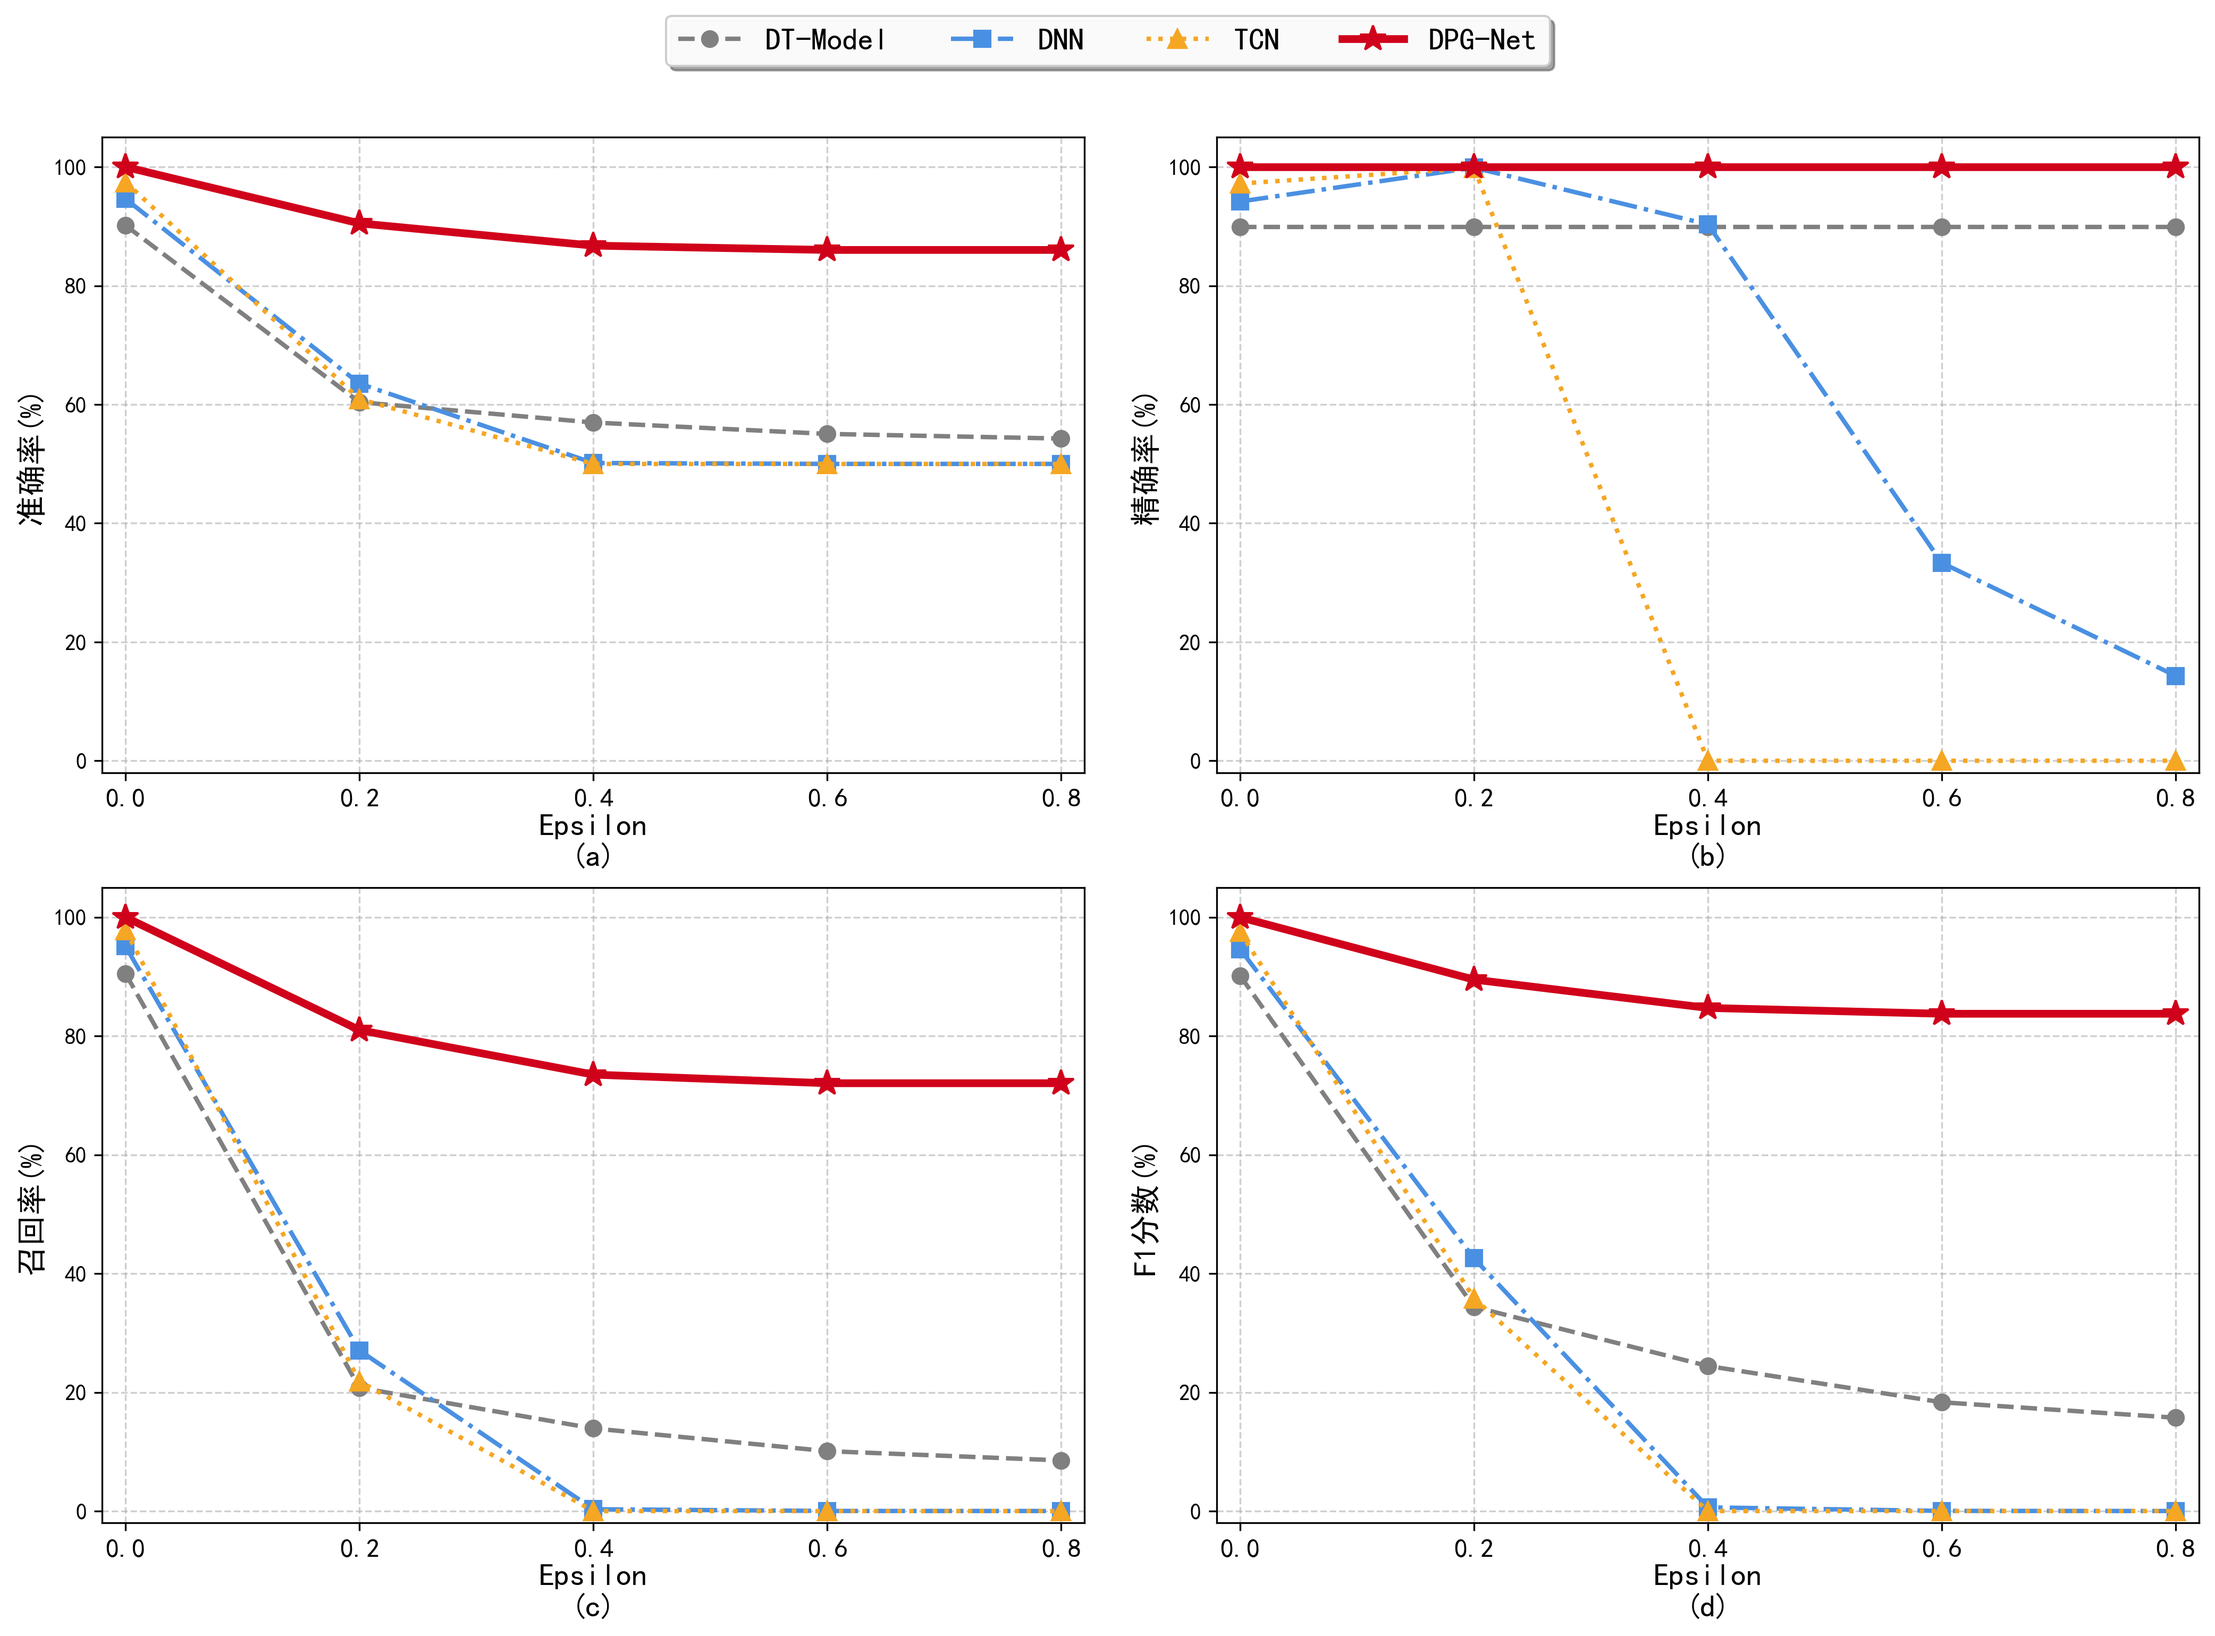
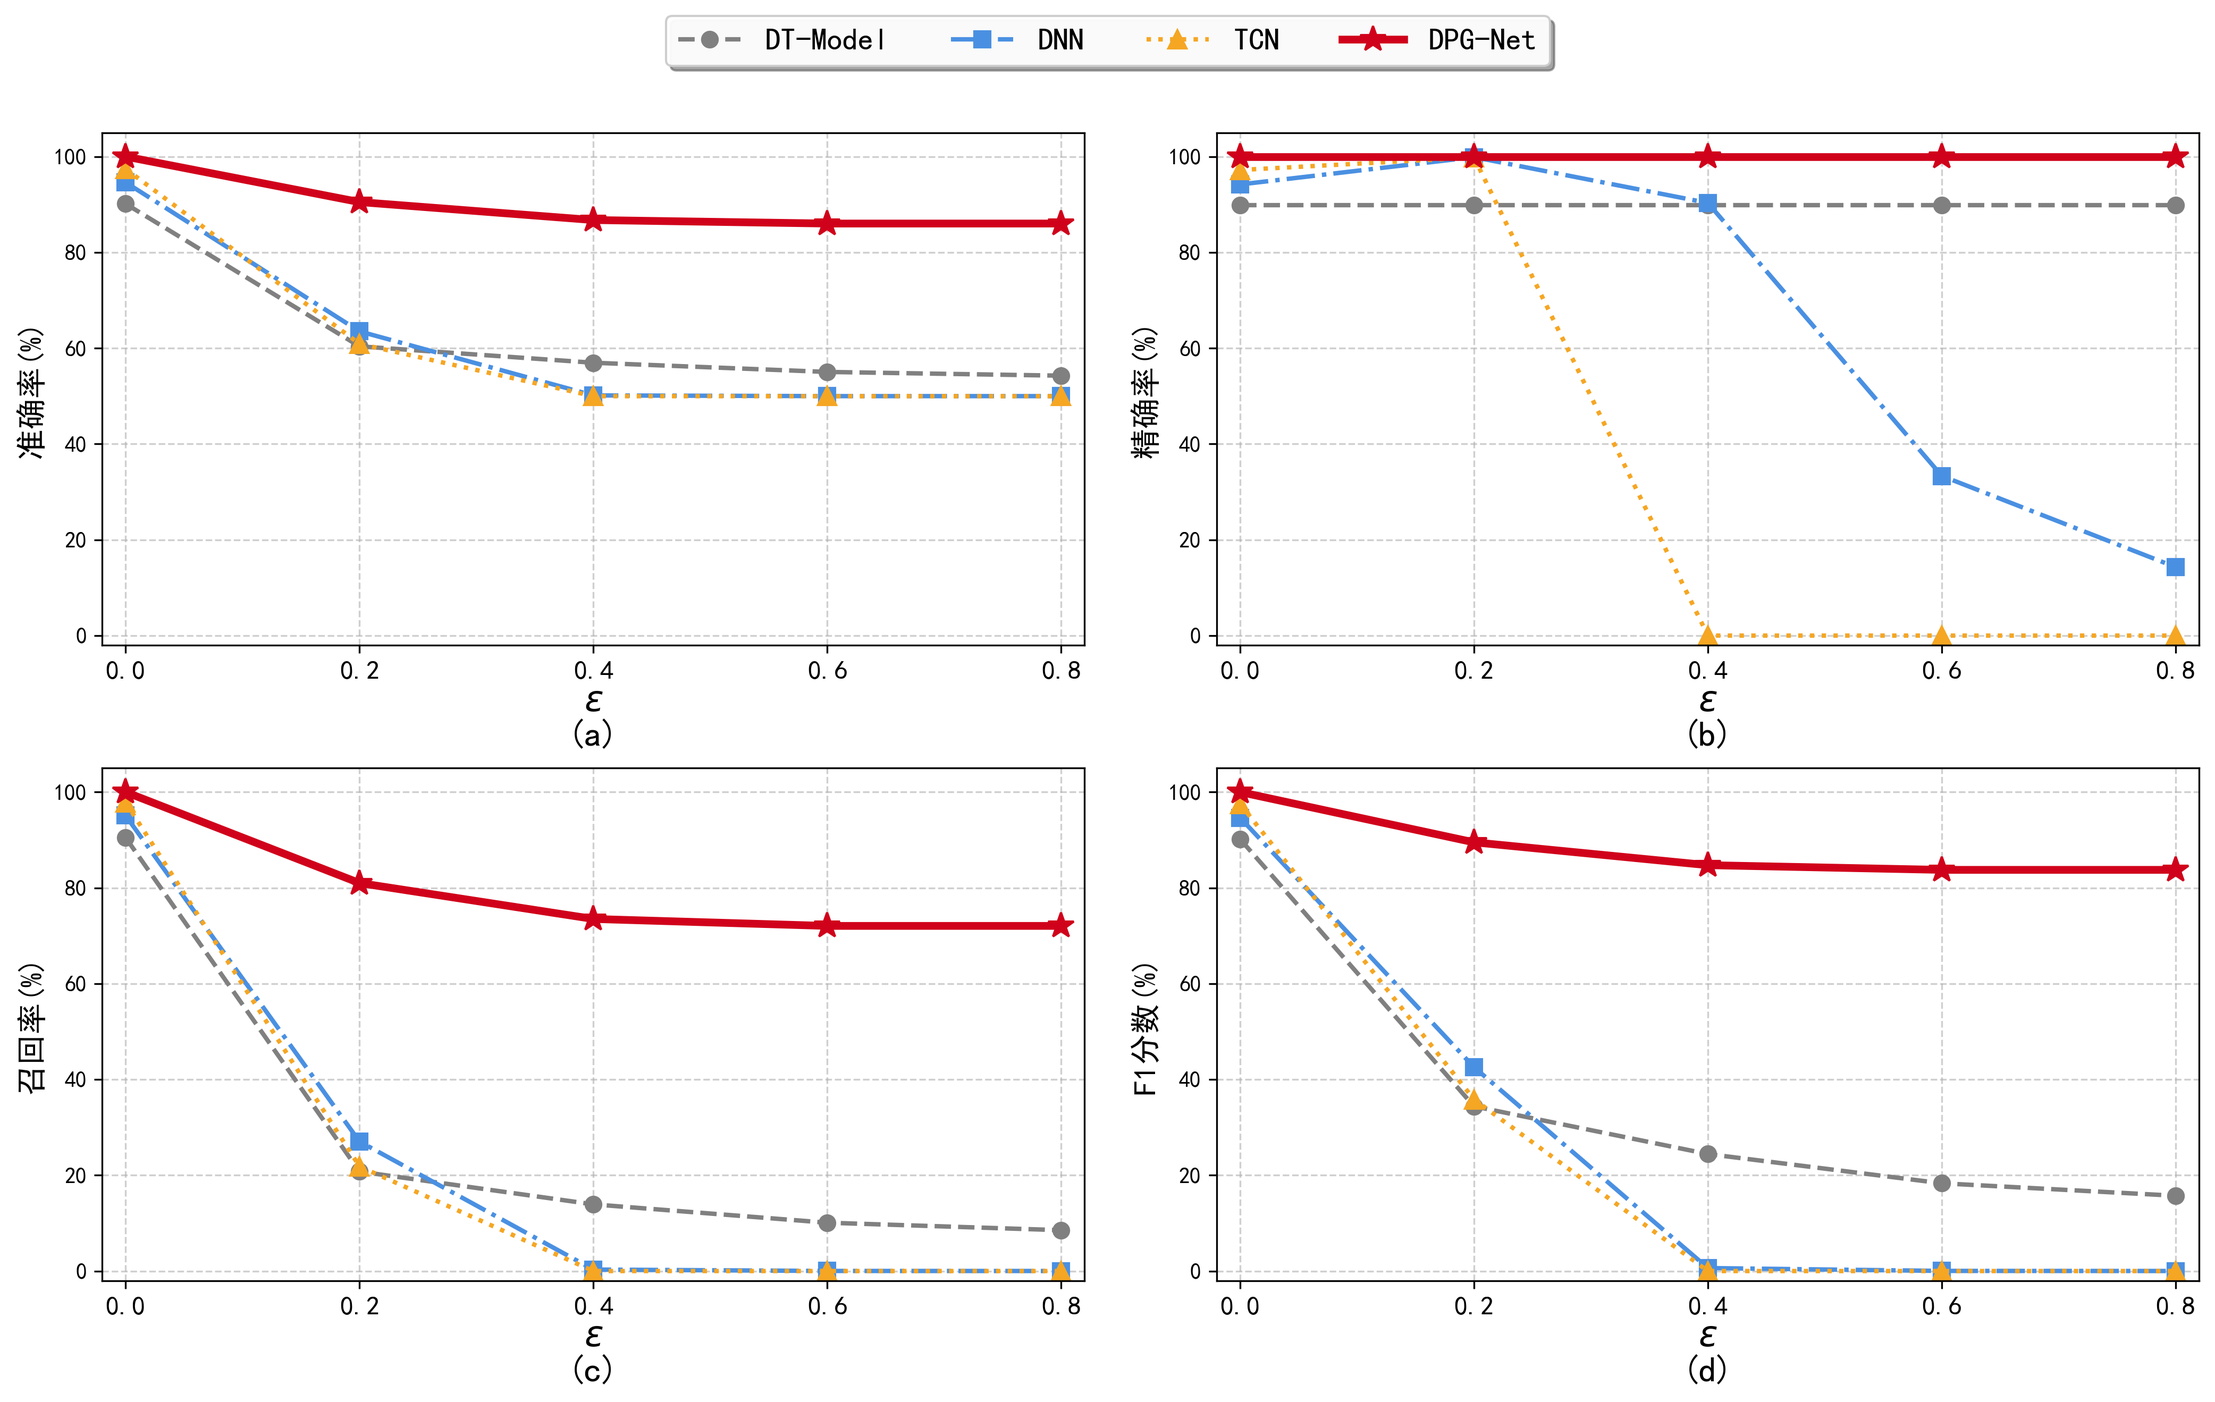
修改

diff --git a/plot_flash_traffic.py b/plot_flash_traffic.py
@@ -1,8 +1,8 @@
 #!/usr/bin/env python3
+from matplotlib.font_manager import FontProperties
 import pandas as pd
 import matplotlib.pyplot as plt
 import matplotlib.dates as mdates
-import matplotlib.colors as mcolors
 import os
 import glob
 import re
@@ -13,10 +13,15 @@ import sys
 INPUT_DIR = '/data/exp/hrliu/1998WC/WorldCupCSV/'
 
 # 输出：图片保存路径
-OUTPUT_IMG = './wc98_day71_74_labeled_traffic.png'
+OUTPUT_IMG = './wc98_day71_74_traffic_clean.png'
 
 # 筛选范围：只保留这几天的数据
-TARGET_DAYS = [71, 72, 73, 74]
+TARGET_DAYS = [72, 73, 74, 75]
+
+# 设置中文字体（请确保系统中有该字体，若报错可去掉 fontproperties 参数）
+my_font = FontProperties(fname='./MSYH.TTC', size=12) 
+# 如果找不到该路径的字体，可以回退使用默认设置：
+# my_font = FontProperties(size=12) 
 # ===========================================
 
 def get_sorted_target_files(directory, target_days):
@@ -54,7 +59,7 @@ def plot_labeled_days(input_dir, output_img):
         print(f"[!] 错误: 未找到 Day {TARGET_DAYS} 的任何 .csv 文件！")
         return
 
-    print(f"[*] 找到 {len(files_to_process)} 个相关文件，开始分段处理...")
+    print(f"[*] 找到 {len(files_to_process)} 个相关文件，开始处理...")
     
     # 用一个列表存储分段数据：[(filename, dataframe), ...]
     data_segments = []
@@ -83,8 +88,7 @@ def plot_labeled_days(input_dir, output_img):
             seg_df.columns = ['timestamp', 'count']
             seg_df['datetime'] = pd.to_datetime(seg_df['timestamp'], unit='s')
             
-            # 存入列表，保留文件名信息
-            # 这里取简短文件名 (如 wc_day71_1) 用于标注
+            # 存入列表
             short_name = file_name.replace('.csv', '')
             data_segments.append((short_name, seg_df))
             
@@ -93,76 +97,44 @@ def plot_labeled_days(input_dir, output_img):
         except Exception as e:
             print(f"\n[!] 读取文件 {file_name} 失败: {e}")
 
-    print(f"\n[*] 读取完毕，开始分段绘图...")
+    print(f"\n[*] 读取完毕，开始绘图...")
 
     if not data_segments:
         return
 
     # 2. 绘图设置
-    plt.figure(figsize=(18, 8), dpi=300) # 加大宽度以便显示标签
+    plt.figure(figsize=(18, 8), dpi=300) 
     
-    # 准备一组颜色循环使用，以便区分相邻的文件
-    colors = list(mcolors.TABLEAU_COLORS.values()) # 默认10种颜色循环
-    
-    max_y_val = 0 # 用于确定标签的高度
+    # 设定统一的颜色
+    main_plot_color = 'steelblue' 
+    max_y_val = 0 
 
-    # 3. 循环绘制每一段
+    # 3. 循环绘制每一段 (彻底取消了分隔线和标签标注)
     for idx, (fname, df) in enumerate(data_segments):
-        # 获取当前颜色
-        color = colors[idx % len(colors)]
         
-        # 绘制曲线
-        plt.plot(df['datetime'], df['count'], color=color, linewidth=1, label=None)
+        # 绘制纯净曲线
+        plt.plot(df['datetime'], df['count'], color=main_plot_color, linewidth=1)
         
         # 更新最大Y值用于后面设置范围
         current_max = df['count'].max()
         if current_max > max_y_val:
             max_y_val = current_max
-            
-        # === 核心改进：标注文件边界 ===
-        start_time = df['datetime'].min()
-        
-        # A. 画垂直虚线 (表示文件开始)
-        plt.axvline(x=start_time, color='gray', linestyle='--', linewidth=0.5, alpha=0.7)
-        
-        # B. 标注文件名
-        # 为了防止文字重叠，我们可以让高度错开一下 (交替显示)
-        # 比如：偶数个文件显示在高处，奇数个文件稍微低一点
-        text_y_pos = max_y_val * 1.05 if idx % 2 == 0 else max_y_val * 0.95
-        
-        # 截取名字中的关键部分，例如 wc_day71_1 -> 71_1
-        label_text = fname.replace('wc_day', '') 
-        
-        plt.text(start_time, text_y_pos, label_text, 
-                 rotation=90,          # 垂直旋转文字
-                 verticalalignment='bottom', 
-                 horizontalalignment='right',
-                 fontsize=9, 
-                 color='black', 
-                 fontweight='bold')
 
     # 4. 图表美化
-    plt.title(f'World Cup 98 Traffic Source Analysis (Labeled by File Segment)', fontsize=16, fontweight='bold')
-    plt.xlabel('Date / Time', fontsize=12)
-    plt.ylabel('Requests / Second', fontsize=12)
+    plt.xlabel('时间', fontproperties=my_font)
+    plt.ylabel('每秒请求次数', fontproperties=my_font)
     
-    # 扩大一点Y轴范围给标签留空间
-    plt.ylim(0, max_y_val * 1.2)
+    # Y轴从0开始，顶部留出 5% 的空间即可
+    plt.ylim(0, max_y_val * 1.05)
     
     # X轴格式化
     plt.gca().xaxis.set_major_formatter(mdates.DateFormatter('%m-%d %H:00'))
     plt.gca().xaxis.set_major_locator(mdates.HourLocator(interval=6))
     plt.gcf().autofmt_xdate()
 
+    # 保留虚线网格，方便看数据高度
     plt.grid(True, linestyle=':', alpha=0.5)
     
-    # 添加一个说明图例
-    # 创建一个虚拟的 handle 告诉用户不同颜色代表不同文件
-    from matplotlib.lines import Line2D
-    custom_lines = [Line2D([0], [0], color=colors[0], lw=2),
-                    Line2D([0], [0], color=colors[1], lw=2)]
-    plt.legend(custom_lines, ['File Segment N', 'File Segment N+1'], loc='upper right')
-
     plt.tight_layout()
     plt.savefig(output_img)
     print(f"[*] 绘图完成！图片已保存至: {os.path.abspath(output_img)}")

diff --git a/消融实验双簇柱状图.py b/消融实验双簇柱状图.py
@@ -2,66 +2,72 @@ import matplotlib.pyplot as plt
 import numpy as np
 
 # ================= 配置区域 =================
-OUTPUT_IMG = '4.5.4_全指标消融实验2x2柱状组图.png'
+OUTPUT_IMG = '消融实验2x2组图.png'
 plt.rcParams['font.sans-serif'] = ['SimHei']  # 中文标签
 plt.rcParams['axes.unicode_minus'] = False    # 负号
 # ===========================================
 
-def plot_4x4_ablation_grid():
-    labels = ['Dist\nOnly', 'Dyn\nOnly', 'No\nDropout', 'DPG\nNet']
+def plot_4x4_real_ablation_grid():
+    labels = ['Dist-Only', 'Dyn-Only', 'No-Dropout', 'DPG-Net']
     x = np.arange(len(labels))
     width = 0.35  
 
-    # 完整四指标理想数据矩阵
-    acc_clean = [99.15, 80.42, 99.30, 92.50]
-    acc_adv   = [50.12, 72.35, 58.60, 84.50]
+    # 载入真实实验数据
+    acc_clean = [99.85, 99.99, 99.98, 100.00]
+    acc_adv   = [73.75, 49.99, 53.99, 88.60]
     
-    pre_clean = [99.20, 82.15, 99.45, 94.20]
-    pre_adv   = [0.00,  75.40, 45.20, 86.10]
+    pre_clean = [99.75, 99.97, 99.96, 99.99]
+    pre_adv   = [99.48,  0.00, 99.45, 99.99]
     
-    rec_clean = [99.10, 78.50, 99.15, 91.00]
-    rec_adv   = [0.00,  67.80, 23.40, 81.50]
+    rec_clean = [99.95, 100.00, 100.00, 100.00]
+    rec_adv   = [47.75,   0.00,   8.02,  77.20]
     
-    f1_clean  = [99.15, 80.28, 99.30, 92.57]
-    f1_adv    = [0.00,  71.39, 30.83, 83.73]
+    f1_clean  = [99.85, 99.99, 99.98, 100.00]
+    f1_adv    = [64.53,  0.00, 14.85,  87.13]
 
-    fig, axs = plt.subplots(2, 2, figsize=(14, 10))
+    # 将高度从 9 压缩到 7.5，物理上挤压多余的白边
+    fig, axs = plt.subplots(2, 2, figsize=(14, 7.5))
 
-    def plot_bar_subplot(ax, data_clean, data_adv, title, sub_id):
-        rects1 = ax.bar(x - width/2, data_clean, width, label='洁净环境 (\u03B5=0.0)', color='#4A90E2', edgecolor='black', alpha=0.9)
-        rects2 = ax.bar(x + width/2, data_adv, width, label='极限对抗 (\u03B5=0.8)', color='#D0021B', edgecolor='black', alpha=0.9)
+    def plot_bar_subplot(ax, data_clean, data_adv, ylabel, sub_id):
+        # 【修改点】使用 r 字符串和 LaTeX 语法渲染 \epsilon
+        rects1 = ax.bar(x - width/2, data_clean, width, label=r'正常环境 ($\epsilon=0.0$)', color='#4A90E2', edgecolor='black', alpha=0.9)
+        rects2 = ax.bar(x + width/2, data_adv, width, label=r'对抗攻击 ($\epsilon=0.8$)', color='#D0021B', edgecolor='black', alpha=0.9)
         
         ax.set_ylim(0, 119) # 留出顶部写数值的空间
         ax.set_xticks(x)
         ax.set_xticklabels(labels, fontsize=12, fontweight='bold')
         ax.grid(axis='y', linestyle='--', alpha=0.6)
-        ax.set_ylabel('百分比 (%)', fontsize=13, fontweight='bold')
-        ax.set_xlabel(f'变体模型\n\n{sub_id}', fontsize=14, fontweight='bold', labelpad=5)
-        ax.set_title(title, fontsize=15, fontweight='bold', pad=12)
+        
+        ax.set_ylabel(ylabel, fontsize=14, fontweight='bold')
+        
+        # 将 labelpad 缩小到 2，让 (a)(b) 紧贴上面的文字
+        ax.set_xlabel(sub_id, fontsize=14, fontweight='bold', labelpad=2)
 
         # 添加数值标签
         def autolabel(rects):
             for rect in rects:
                 height = rect.get_height()
-                ax.annotate(f'{height:.1f}',
+                ax.annotate(f'{height:.2f}',
                             xy=(rect.get_x() + rect.get_width() / 2, height),
                             xytext=(0, 3), textcoords="offset points",
                             ha='center', va='bottom', fontsize=10, fontweight='bold')
         autolabel(rects1)
         autolabel(rects2)
 
-    plot_bar_subplot(axs[0, 0], acc_clean, acc_adv, '准确率 (Accuracy)', '(a)')
-    plot_bar_subplot(axs[0, 1], pre_clean, pre_adv, '精确率 (Precision)', '(b)')
-    plot_bar_subplot(axs[1, 0], rec_clean, rec_adv, '召回率 (Recall)', '(c)')
-    plot_bar_subplot(axs[1, 1], f1_clean, f1_adv, 'F1分数 (F1-Score)', '(d)')
+    # 将具体的指标名称传入作为 ylabel
+    plot_bar_subplot(axs[0, 0], acc_clean, acc_adv, '准确率(%)', '(a)')
+    plot_bar_subplot(axs[0, 1], pre_clean, pre_adv, '精确率(%)', '(b)')
+    plot_bar_subplot(axs[1, 0], rec_clean, rec_adv, '召回率(%)', '(c)')
+    plot_bar_subplot(axs[1, 1], f1_clean, f1_adv, 'F1分数(%)', '(d)')
 
-    # 统一图例
+    # 统一图例 (微调了 bbox_to_anchor 配合更扁的画板)
     handles, labels_legend = axs[0, 0].get_legend_handles_labels()
-    fig.legend(handles, labels_legend, loc='upper center', bbox_to_anchor=(0.5, 0.98), ncol=2, fontsize=14, fancybox=True, shadow=True)
+    fig.legend(handles, labels_legend, loc='upper center', bbox_to_anchor=(0.5, 1.04), ncol=2, fontsize=14, fancybox=True, shadow=True)
 
-    plt.tight_layout(h_pad=2.5, w_pad=2.0, rect=[0, 0, 1, 0.95])
+    # 将 h_pad (垂直填充距) 从 2.0 暴降到 0.5，彻底缝合上下两排
+    plt.tight_layout(h_pad=0.5, w_pad=2.0, rect=[0, 0, 1, 0.95])
     plt.savefig(OUTPUT_IMG, dpi=300, bbox_inches='tight')
-    print(f"\n[+] 全指标矩阵图已生成！请查看: {OUTPUT_IMG}")
+    print(f"\n[+] 包含标准数学符号的矩阵图已生成！请查看: {OUTPUT_IMG}")
 
 if __name__ == "__main__":
-    plot_4x4_ablation_grid()
+    plot_4x4_real_ablation_grid()

diff --git a/对抗攻击性能折线图.py b/对抗攻击性能折线图.py
@@ -37,8 +37,8 @@ def plot_4x4_real_robustness_grid():
     f1_tcn = [97.52, 35.84, 0.00, 0.00, 0.00]
     f1_dpg = [100.00, 89.50, 84.73, 83.75, 83.75]
 
-    # 3. 创建 2x2 的子图画布 (保持致密尺寸)
-    fig, axs = plt.subplots(2, 2, figsize=(14, 10))
+    # 3. 创建 2x2 的子图画布 (结合之前柱状图的经验，稍微压低高度让版面更致密)
+    fig, axs = plt.subplots(2, 2, figsize=(14, 8.5))
     
     # 统一线条样式
     styles = {
@@ -63,8 +63,8 @@ def plot_4x4_real_robustness_grid():
         
         ax.set_ylabel(ylabel, fontsize=14, fontweight='bold')
         
-        # 【修改 1】：将 labelpad 从 8 大幅缩小至 2，防止文字过度往下顶出物理间隙
-        ax.set_xlabel(f'Epsilon\n{sub_id}', fontsize=14, fontweight='bold', labelpad=2)
+        # 【修改 1】：将原先的 Epsilon 替换为数学符号 $\epsilon$ (使用 rf 字符串)
+        ax.set_xlabel(rf'$\epsilon$'+'\n'+f'{sub_id}', fontsize=16, fontweight='bold', labelpad=2)
 
     # 4. 绘图
     plot_subplot(axs[0, 0], acc_dt, acc_dnn, acc_tcn, acc_dpg, '准确率(%)', '(a)')
@@ -77,12 +77,12 @@ def plot_4x4_real_robustness_grid():
     fig.legend(handles, labels, loc='lower center', bbox_to_anchor=(0.5, 0.98), 
                ncol=4, fontsize=14, fancybox=True, shadow=True, framealpha=0.95)
 
-    # 【修改 2】：将 h_pad (垂直填充距) 从 2.5 暴降至 0.8，彻底消灭上下两排之间的巨大断层
+    # 【修改 2】：紧凑化布局
     plt.tight_layout(h_pad=0.8, w_pad=2.0, rect=[0, 0, 1, 0.96])
     
     # 6. 保存图片
     plt.savefig(OUTPUT_IMG, dpi=300, bbox_inches='tight')
-    print(f"\n[+] 完美！压实版退化组图已生成并保存为: {OUTPUT_IMG}")
+    print(f"\n[+] 完美！数学符号版退化组图已生成并保存为: {OUTPUT_IMG}")
 
 if __name__ == "__main__":
     plot_4x4_real_robustness_grid()
